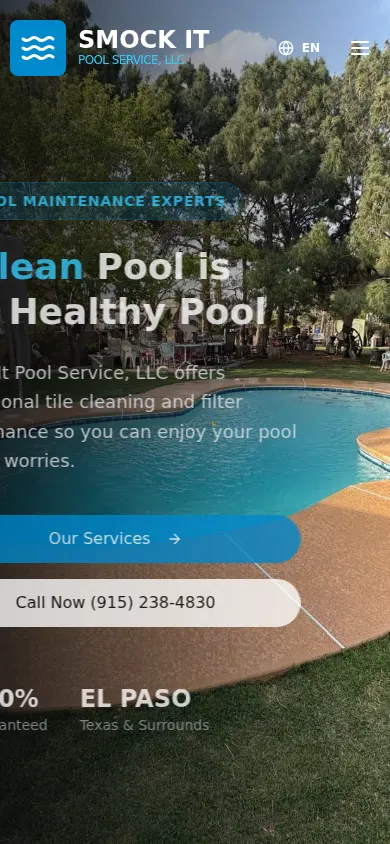
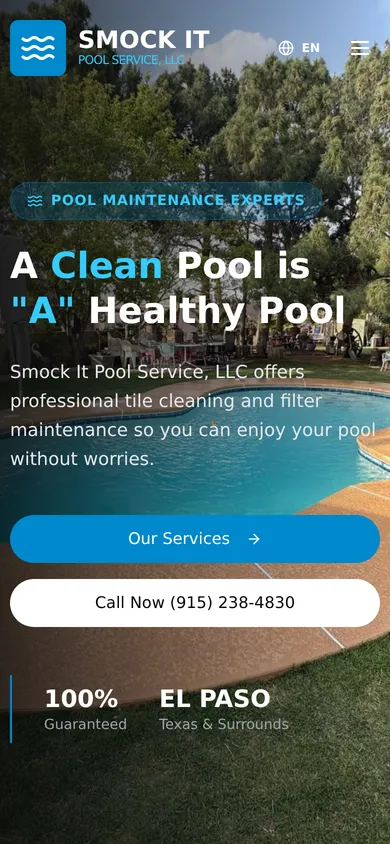
Websites: show only Smock It as example

diff --git a/docs/index.html b/docs/index.html
@@ -187,32 +187,28 @@
         <p class="web__lead reveal">We build websites for El Paso and Juárez businesses that show up on Google, load fast on a phone and make the call easy. Built by the same shop that prints your sign.</p>
         <div class="web__ctas reveal">
           <a class="btn btn--light" href="#web-check">Get my free website check <i class="ph-bold ph-arrow-right" aria-hidden="true"></i></a>
-          <a class="btn btn--outline-light" href="#work">See our work</a>
+          <a class="btn btn--outline-light" href="#work">See an example</a>
         </div>
         <p class="web__partner reveal">Websites designed and built with our web partner, <a href="https://bunkercreativomx.com" target="_blank" rel="noopener">Bunker Creativo</a>.</p>
       </div>
 
       <!-- PORTFOLIO -->
       <div class="work" id="work">
-        <div class="work__tabs" role="tablist" aria-label="Websites we built">
-          <button role="tab" class="work__tab" aria-selected="true" data-site="solace" data-url="https://solaceskinlab.com" data-host="solaceskinlab.com"><strong>Solace Skin Lab</strong><span>Med spa, El Paso</span></button>
-          <button role="tab" class="work__tab" aria-selected="false" data-site="empire" data-url="https://weneedair.com" data-host="weneedair.com"><strong>Empire Refrigeration</strong><span>HVAC, El Paso</span></button>
-          <button role="tab" class="work__tab" aria-selected="false" data-site="smock" data-url="https://smookitpool.vercel.app" data-host="smookitpool.vercel.app"><strong>Smock It Pool Service</strong><span>Pool care, El Paso</span></button>
-          <button role="tab" class="work__tab" aria-selected="false" data-site="tlaloc" data-url="https://tlalocsolfuturo.com" data-host="tlalocsolfuturo.com"><strong>SolFuturo</strong><span>Solar, Juárez</span></button>
-          <button role="tab" class="work__tab" aria-selected="false" data-site="donpunto" data-url="https://donpunto.com" data-host="donpunto.com"><strong>Don Punto</strong><span>Restaurant software</span></button>
-          <button role="tab" class="work__tab" aria-selected="false" data-site="alitas" data-url="https://lasalitasdesiempre.com" data-host="lasalitasdesiempre.com"><strong>Las Alitas de Siempre</strong><span>Restaurant, Juárez</span></button>
+        <div class="work__info">
+          <h3>Smock It Pool Service</h3>
+          <p>Pool care, El Paso. A site that shows the work with before and after photos, lists every service and puts the call button one tap away.</p>
         </div>
-        <div class="work__stage" role="tabpanel" aria-live="polite">
+        <div class="work__stage">
           <div class="browser">
-            <div class="browser__bar"><span></span><span></span><span></span><em class="browser__url" id="work-host">solaceskinlab.com</em></div>
+            <div class="browser__bar"><span></span><span></span><span></span><em class="browser__url" id="work-host">smookitpool.vercel.app</em></div>
             <div class="browser__screen">
-              <img id="work-full" src="img/work/solace-full.webp" alt="Solace Skin Lab website, full page" width="960" height="3733" decoding="async">
+              <img id="work-full" src="img/work/smock-full.webp" alt="Smock It Pool Service website, full page" width="960" height="3733" decoding="async">
             </div>
           </div>
           <div class="phone">
-            <img id="work-mobile" src="img/work/solace-m.webp" alt="Solace Skin Lab website on a phone" width="390" height="844" decoding="async">
+            <img id="work-mobile" src="img/work/smock-m.webp" alt="Smock It Pool Service website on a phone" width="390" height="844" decoding="async">
           </div>
-          <a class="work__live" id="work-live" href="https://solaceskinlab.com" target="_blank" rel="noopener">Visit the live site <i class="ph-bold ph-arrow-up-right" aria-hidden="true"></i></a>
+          <a class="work__live" id="work-live" href="https://smookitpool.vercel.app" target="_blank" rel="noopener">Visit the live site <i class="ph-bold ph-arrow-up-right" aria-hidden="true"></i></a>
         </div>
       </div>
 

diff --git a/docs/main.js b/docs/main.js
@@ -100,30 +100,6 @@
     const visIO = new IntersectionObserver(([e]) => { if (anim) e.isIntersecting ? anim.play() : anim.pause(); });
     visIO.observe(stage);
     let resizeT; addEventListener('resize', () => { clearTimeout(resizeT); resizeT = setTimeout(startScroll, 200); });
-    const select = (tab, focus) => {
-      if (tab.getAttribute('aria-selected') === 'true') return;
-      tabs.forEach(t => { t.setAttribute('aria-selected', String(t === tab)); t.tabIndex = t === tab ? 0 : -1; });
-      if (focus) tab.focus();
-      const n = tab.dataset.site, name = tab.querySelector('strong').textContent;
-      // preload, then swap behind a short blur crossfade
-      const a = new Image(), b = new Image(); a.src = `img/work/${n}-full.webp`; b.src = `img/work/${n}-m.webp`;
-      stage.classList.add('is-swapping');
-      Promise.all([a.decode().catch(()=>{}), b.decode().catch(()=>{}), new Promise(r => setTimeout(r, reduce ? 0 : 220))]).then(() => {
-        full.src = a.src; full.alt = `${name} website, full page`;
-        mob.src = b.src; mob.alt = `${name} website on a phone`;
-        host.textContent = tab.dataset.host; live.href = tab.dataset.url;
-        requestAnimationFrame(() => { stage.classList.remove('is-swapping'); startScroll(); });
-      });
-    };
-    tabs.forEach((t, i) => {
-      t.tabIndex = i === 0 ? 0 : -1;
-      t.addEventListener('click', () => select(t));
-      t.addEventListener('keydown', e => {
-        const k = { ArrowDown: 1, ArrowRight: 1, ArrowUp: -1, ArrowLeft: -1 }[e.key];
-        if (!k) return; e.preventDefault();
-        select(tabs[(i + k + tabs.length) % tabs.length], true);
-      });
-    });
   }
 
   // ---------- Websites: free check quiz ----------

diff --git a/docs/styles.css b/docs/styles.css
@@ -255,6 +255,9 @@ html { scrollbar-color: var(--violet) var(--paper-2); }
 
 /* Portfolio */
 .work { margin-top: 88px; display: grid; grid-template-columns: 290px 1fr; gap: 40px; align-items: start; }
+.work__info { padding-top: 8px; }
+.work__info h3 { font-size: clamp(1.6rem, 2.4vw, 2.1rem); line-height: 1.02; font-weight: 860; font-stretch: 76%; text-transform: uppercase; }
+.work__info p { margin-top: 12px; color: rgb(255 255 255 / 0.86); }
 .work__tabs { display: grid; gap: 6px; }
 .work__tab { all: unset; box-sizing: border-box; cursor: pointer; display: grid; gap: 2px; padding: 16px 18px; border-radius: 14px; border: 1px solid transparent; color: rgb(255 255 255 / 0.86); transition: background-color 200ms ease, color 200ms ease, border-color 200ms ease, transform 160ms var(--ease-out); }
 .work__tab strong { font-size: 1.05rem; font-weight: 750; color: inherit; }
